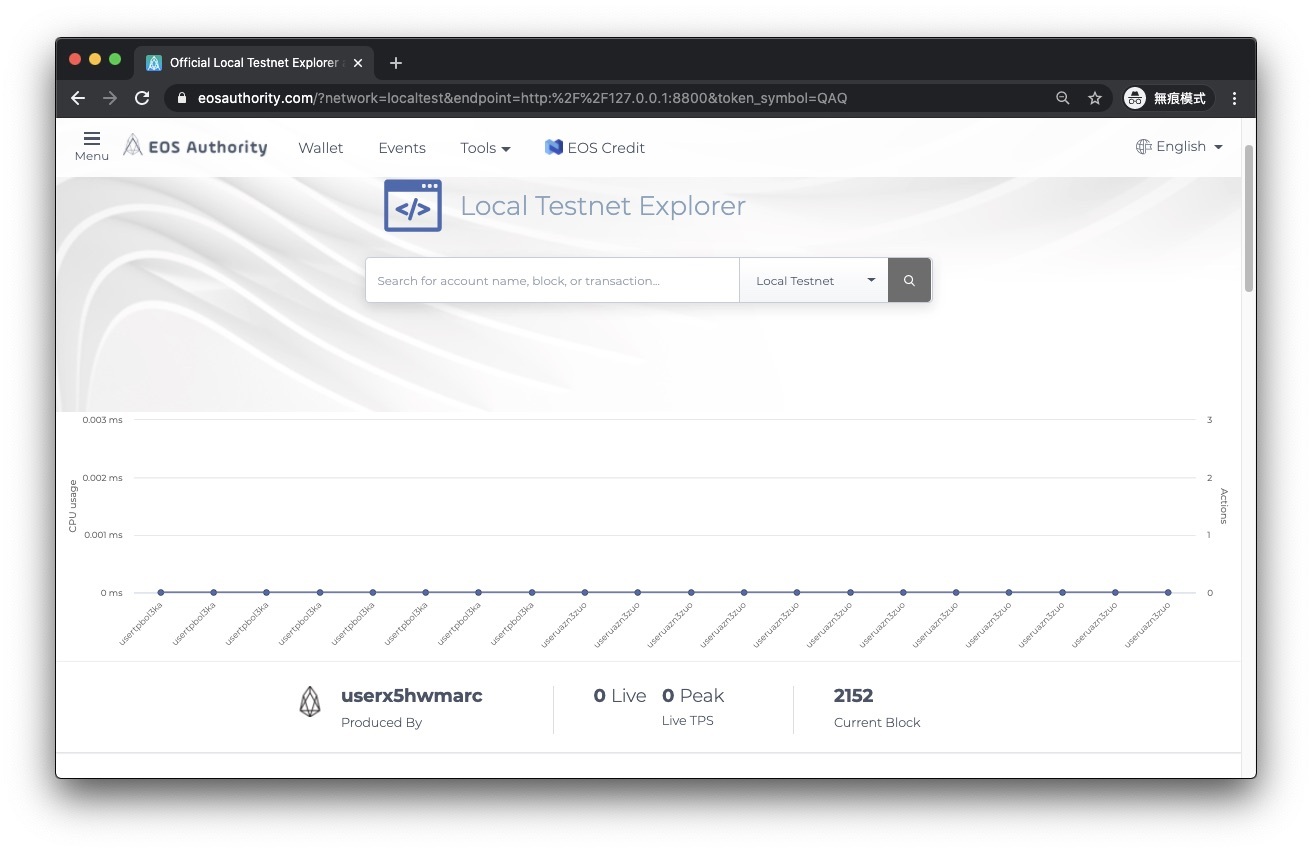
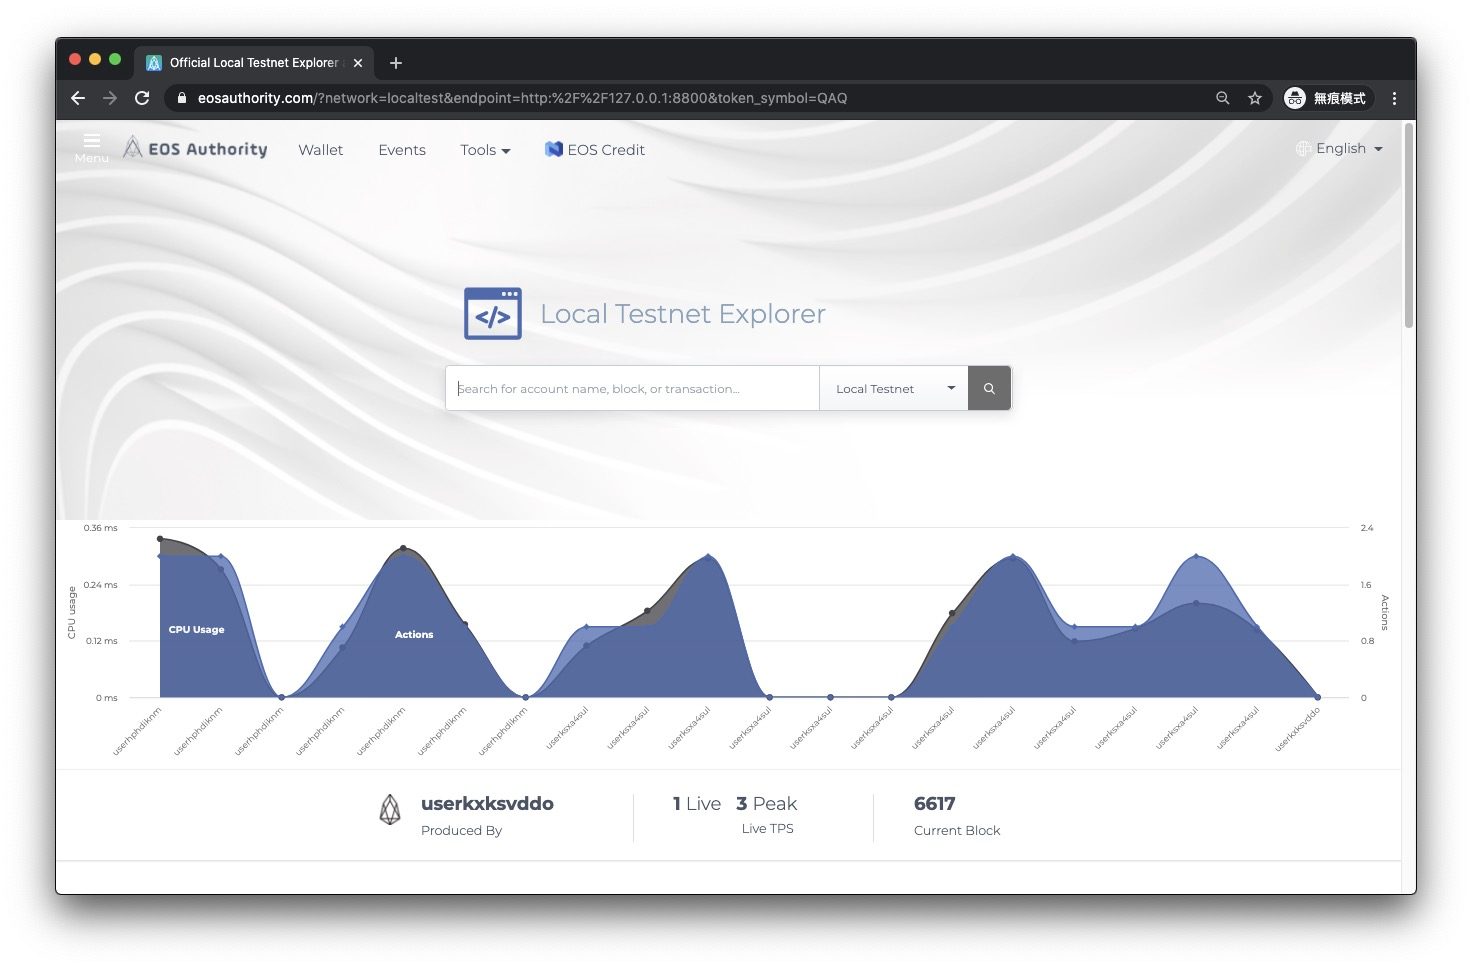
add loop transaction

diff --git a/quick_start.md b/quick_start.md
@@ -19,7 +19,6 @@ bash quick_start.sh
 ## Use docker 
 
 ```shell=
-# node v5
 docker run -d -it -p 8881:8080/tcp -p 8800:8800/tcp --name eos tony92151/eos_lab:official
 ```
 
@@ -39,12 +38,19 @@ and press [ENTER] to continue.
 
 DONE
 
-```
-This will create 25 nodes as producers. The first node 0000 will be genesis node. After the genesis node is launched and the system contract (nodes folder) set, we launch others nodes as producers (node0000~0024) and voters (node0025~0035).
-```
+This script will create 25 nodes as producers. The first node 0000 will be genesis node. After the genesis node is launched and the system contract (nodes folder) set, we launch others nodes as producers (node0000~0024) and voters (node0025~0035).
+
 All key pairs can be found [here](https://github.com/Intelligent-Systems-Lab/eos-keygen/blob/master/python/account_50.txt).
 
 If you want to generate new keypairs yourself, check this [repo](https://github.com/Intelligent-Systems-Lab/eos-keygen).
+
+### what's next?
+
+Launch a script that can make transaction between nodes (0025~0035) automatically.
+
+```shell==
+bash transaction_loop.sh
+```
 
 ## Explorer
 
